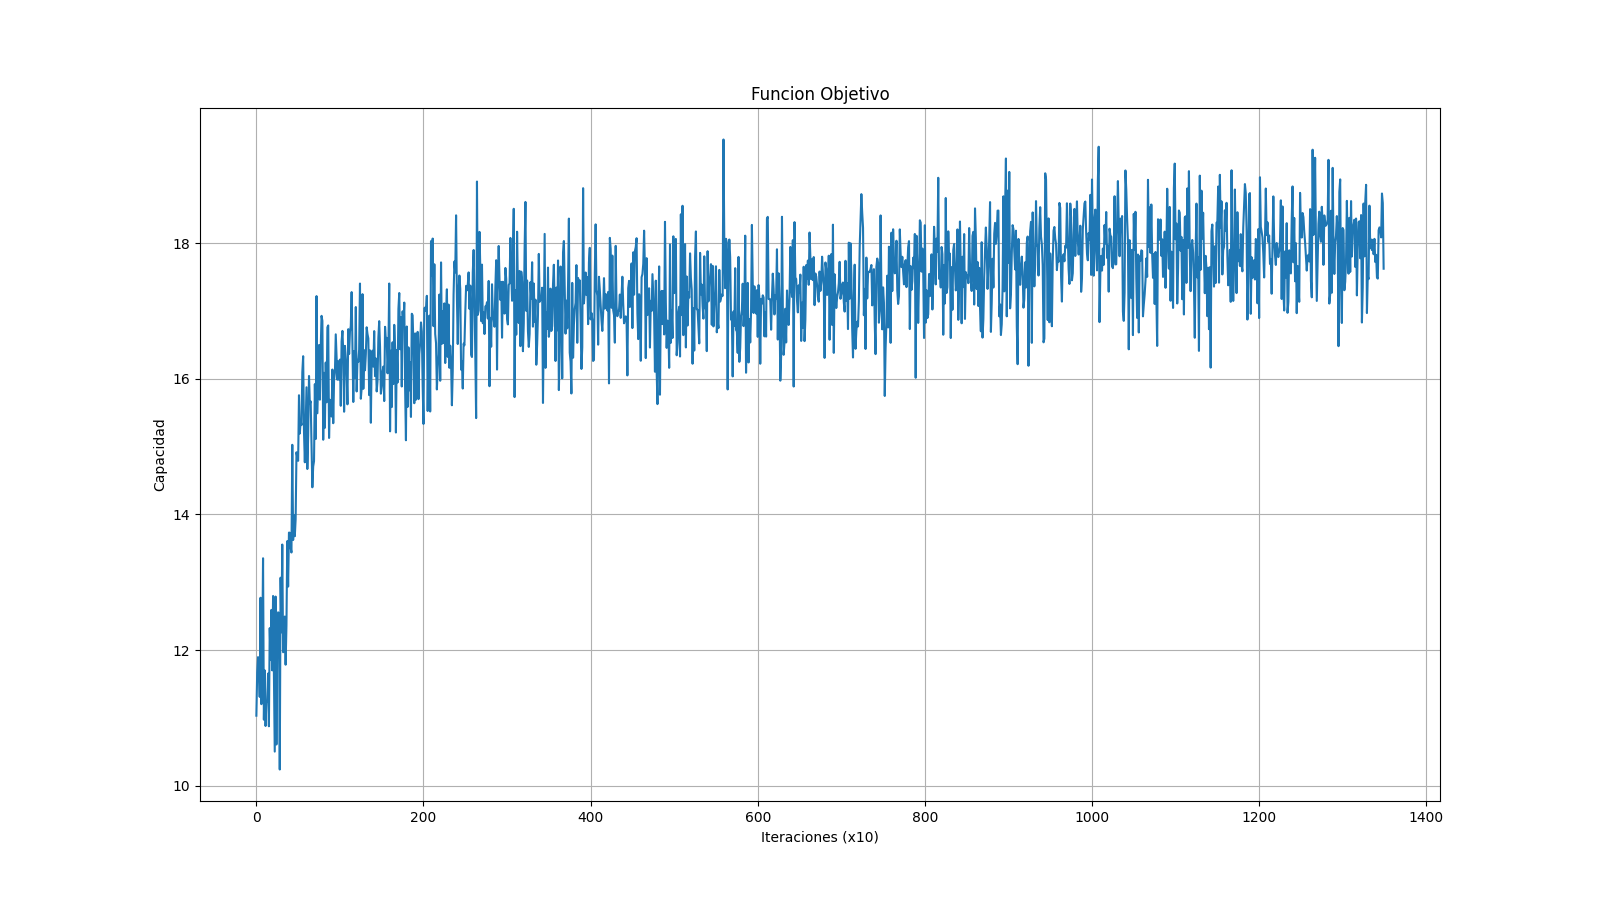
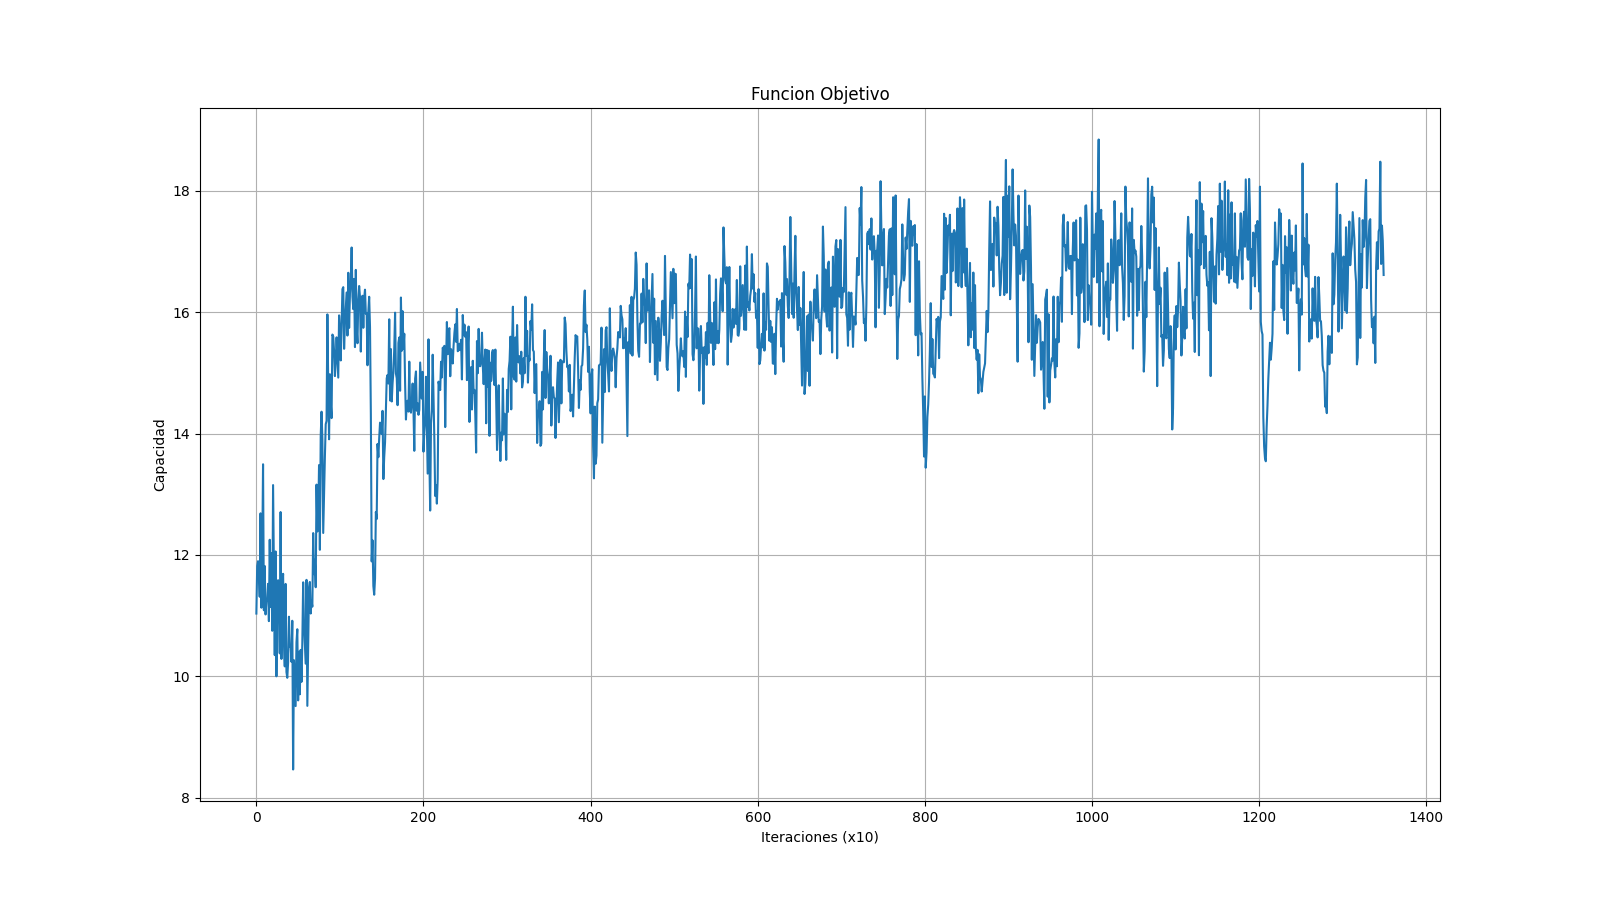
Reunión 12 de agosto

Changed region(s): [[0.1562, 0.1867, 0.875, 0.84]]

diff --git a/RUN/utils.py b/RUN/utils.py
@@ -196,77 +196,27 @@ def get_rates(phi, channel_matrix_batch, sigma):
     rates = torch.log(numerator / denominator + 1)
     return rates
 
-
-# # # Lo que hizo mauri:
 def nuevo_get_rates(phi, channel_matrix_batch, sigma, p0=4):
     """
     phi: [batch_size, num_links, num_channels] (potencia por canal)
     channel_matrix_batch: [batch_size, num_links, num_links] (ganancias |h_ji|^2)
-    sigma: ruido
+    sigma: ruido (scalar o tensor compatible)
     p0: potencia por canal cuando está activo
     """
     batch_size, num_links, num_channels = phi.shape
-
-    # # Calcular potencia total por enlace (p_i)
-    # p_i = torch.sum(phi, dim=2)  # [64, 5]
 
     rates = torch.zeros(batch_size, num_links, num_channels)  
 
     for ch in range(num_channels):
             p_i = phi[:,:,ch]
-            # Obtener ganancias directas (|h_ii|^2)
-            diag_gains = torch.diagonal(channel_matrix_batch, dim1=1, dim2=2)  # [64, 5]
+            numerator = torch.unsqueeze(torch.diagonal(channel_matrix_batch, dim1=1, dim2=2) * p_i, dim=2)
+            expanded_phi = torch.unsqueeze(p_i, dim=2)
+            denominator = torch.matmul(channel_matrix_batch.float(), expanded_phi.float()) 
+            denominator -= numerator 
+            denominator = denominator*p_i.unsqueeze(-1)/p0
+            denominator += sigma
+            rate_ch = torch.log(numerator / denominator + 1).squeeze(-1)
+            rates[:, :, ch] = rate_ch
             
-            # Calcular numerador |h_ii|^2 * p_i
-            numerator = diag_gains * p_i  # [64, 5]
-            # Calcular interferencia (término ∑)
-            interference = torch.zeros(batch_size, num_links, device=phi.device)
-            
-            # Máscara para enlaces transmitiendo en este canal
-            transmitting = (phi[:, :, ch] > 0).float()  # [batch_size, num_links]
-            
-            # Potencia transmitida en este canal (p0 o 0)
-            p_ch = transmitting*p0  # [batch_size, num_links]
-            
-            # Calcular interferencia generada por este canal
-            interf_ch = torch.matmul(channel_matrix_batch.float(), p_ch.unsqueeze(2).float()).squeeze(2)  # [batch_size, num_links]
-            
-            # Restar auto-interferencia
-            interf_ch = torch.abs(interf_ch - diag_gains * p_ch)
-            
-            # Aplicar factor de escala (p_i^T/p0)
-            scale_factor = (phi[:, :, ch] > 0).float()  # [batch_size, num_links]
-            interf_ch = interf_ch * (p_i / p0) * scale_factor
-            interference += interf_ch
-            rates[:,:,ch]= torch.log1p(numerator / (sigma + interference))  # [batch_size, num_links]
     return rates
-
-
-# def nuevo_get_rates(phi, channel_matrix_batch, sigma, p0=4):
-#     """
-#     phi: [B, L, C] (potencia por canal)
-#     channel_matrix_batch: [B, L, L] (ganancias |h_ji|^2)
-#     sigma: [B] o [B, 1]
-#     """
-#     B, L, C = phi.shape
-#     diag_gains = torch.diagonal(channel_matrix_batch, dim1=1, dim2=2)  # [B, L]
-
-#     rates = torch.zeros(B, L, C, device=phi.device)
-
-#     for ch in range(C):
-#         p_ch = phi[:, :, ch]  # [B, L]
-
-#         numerator = diag_gains * p_ch  # [B, L]
-
-#         # Interferencia generada por otros enlaces en el mismo canal
-#         interf_ch = torch.matmul(channel_matrix_batch.float(), p_ch.unsqueeze(-1)).squeeze(-1)  # [B, L]
-#         interf_ch = interf_ch - diag_gains * p_ch  # quitar auto-interferencia
-
-#         sinr = numerator / (sigma.unsqueeze(-1) + interf_ch.clamp(min=0))  # [B, L]
-#         rates[:, :, ch] = torch.log1p(sinr)
-
-#     mask = (phi > 0).float()
-#     rates = rates * mask  #
-
-#     return rates  # [B, L, C]
 

diff --git a/RUN/train.py b/RUN/train.py
@@ -55,7 +55,7 @@ def run(building_id=990, b5g=False, num_links=5,num_channels = 3, num_layers=5, 
     epochs = epochs
 
     # pmax = num_links
-    pmax = num_links*p0
+    pmax = num_links*num_channels
 
     input_dim = 1
     hidden_dim = 1
